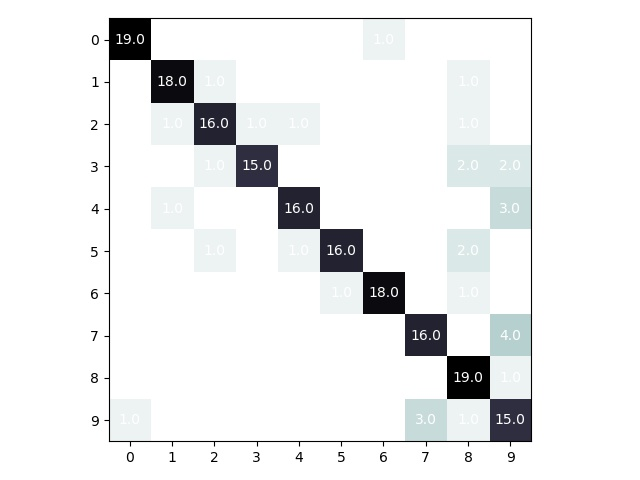
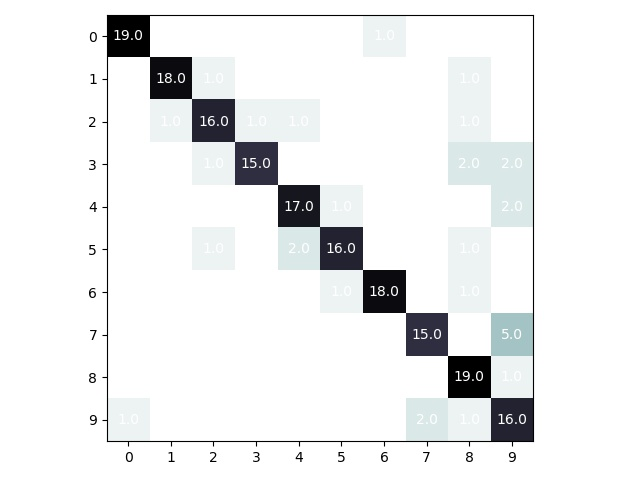
fix: comparison in perceptron

diff --git a/perceptron.py b/perceptron.py
@@ -18,7 +18,7 @@ def perceptron(classifier, training):
         for i in range(2400):
             weightTrans = np.transpose(weight)
             pred = np.dot(training[i], weightTrans)
-            if (((T[i] == 1) and (pred <= 0)) or ((T[i] == -1) and (pred > 0))):
+            if (((T[i] == 1) and (pred < 0)) or ((T[i] == -1) and (pred >= 0))):
                 weight += training[i]*LEARNING_RATE*T[i]
     return weight
 
